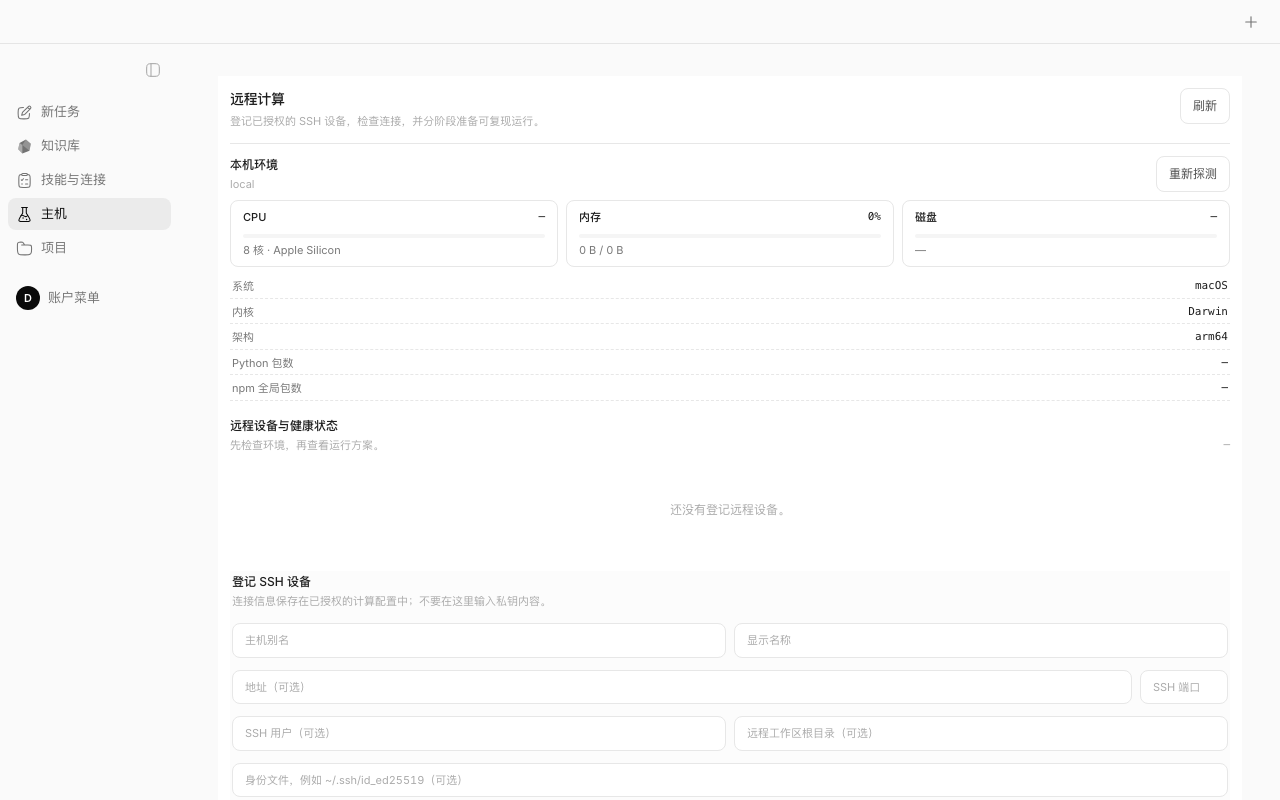
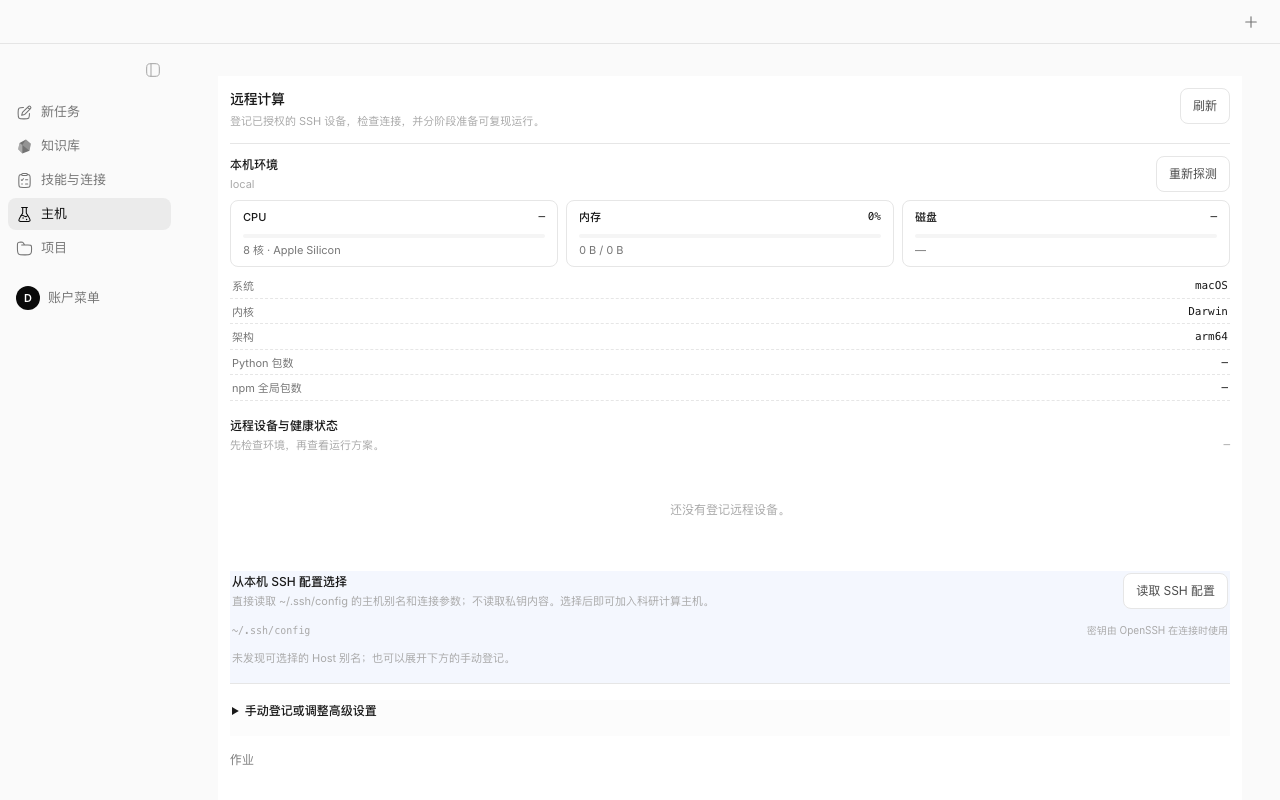
docs: audit pluginization gaps and visual host guard

diff --git a/packages/desktop/src/renderer/src/components/panel/ComputePane.tsx b/packages/desktop/src/renderer/src/components/panel/ComputePane.tsx
@@ -325,7 +325,11 @@ export function ComputePane() {
 	const discoverSshHosts = useCallback(async () => {
 		setSshConfigLoading(true);
 		try {
-			setSshConfigHosts(await getPi().listSshConfig());
+			const discovered = await getPi().listSshConfig();
+			// Older/read-only host stubs may not expose this optional discovery
+			// projection yet. Keep the picker empty instead of breaking the Hosts
+			// route while the rest of the compute contract remains usable.
+			setSshConfigHosts(Array.isArray(discovered) ? discovered : []);
 		} catch (reason) {
 			useComputeStore.setState({ error: reason instanceof Error ? reason.message : String(reason) });
 		} finally {

diff --git a/docs/final-pluginization-plan.md b/docs/final-pluginization-plan.md
@@ -575,6 +575,22 @@ npm run lint && npm run typecheck && npm test && npm run build && npm run check:
 
 **目标完成条件**：五个 v1.1 节点都有公开 tarball 验证；Desktop 只通过 host API 加载已安装包且无隐藏宿主 fallback；suite 能干净安装并发现全部资源；计划与索引记录两个仓库 head、版本、证据路径以及剩余 `BLOCKED`/`NOT_RUN`；没有新的架构红线或未审查的外部写入。
 
+### 9.3 2026-10-20 计划缺口复核
+
+两份计划和本轮口头布置逐项复核后的状态如下：
+
+| 项目 | 当前判定 | 证据或缺口 |
+| --- | --- | --- |
+| 架构 v2 A0–A7、P9、P10、A5-1～A5-4 | **完成** | `docs/architecture-v2-tasks.md` 只有 B8 保留为未勾选的暂缓项；其余任务均有实现和门禁记录。 |
+| 市场独立栏目、官方/社区 MCP 与 Skill 入口、Drone 包版本/说明、左侧 sticky 导航 | **已实现；浏览验收通过** | v0.33.4 安装包的 `v0.33.4-p4-ui-acceptance.json` 已回读四栏、市场卡片、八个 Drone 包元数据和长列表滚动后的导航。官方 extension 安装与 Drone 包更新/卸载的完整真实回读仍未覆盖。 |
+| 技能来源映射与内置包手动检查 | **已实现；范围有限** | `research-skill-sources.json` 和 updater 已显示真实 GitHub 仓库并支持用户点击检查/应用；当前只覆盖内置 Nature/Scientific/Academic 来源，没有“添加任意 Git URL/本地目录、许可依据、卸载来源”的 UI/IPC 闭环。 |
+| 主机 SSH 配置选择器 | **完成（macOS 正式包）** | 正式包发现 8 个 Host 别名并加入 `drone-gaoxuze-c`；只读元数据，不读取私钥正文。远程连通性仍需单独授权，不把发现误报为健康检查。 |
+| 分层热插拔 | **部分完成** | UI 插件运行中启停/重载和 Pi 包 registry/宿主加载已通过；worker `prepareUnload → drain → dispose → load → healthCheck`、失败自动回滚、生命周期事件与 Pi “下一会话版本”展示尚无真实宿主证据。当前 `PackageService` 会重载非流式会话，和计划的下一会话语义需要后续拆分决策。 |
+| 真实知识闭环与主线实机门槛 | **仍未闭合** | P1-2/3/4、P1-5 仍需正式包真实知识写入→回读和轻路径会话；V4 MCP 因无配置为 `BLOCKED`，V5 原生 Pi 为 `NOT_RUN`。 |
+| 视觉对照与版本发布 | **浅色通过，深色未运行** | 浅色四视图静态回归和正式包回读均有证据；深色前后截图仍为 `NOT_RUN`。当前分支已有 v0.33.4 构建产物，但尚无 `v0.33.4` tag/远端 Release，不应把本地候选称为已发布版本。 |
+
+上述未闭合项属于 backlog 或环境门槛，不改变已通过的 `MCP-01`、`MEM-01`、`REDLINE-01`，也不触碰暂缓的 B8、只读的 Protocols.io 和无证书发布策略。
+
 > A5-1～A5-4 的用户收益、当前完成度和迁移顺序见 [A5 领域包收敛摘要](a5-impact-summary.md)。这些是发布后的架构收敛项，不改变已通过的 v1.1 门槛。
 
 ## 10. 插件化与桌面验收红线
@@ -625,9 +641,8 @@ npm run lint && npm run typecheck && npm test && npm run build && npm run check:
 
 ## 执行日志
 
-> Older execution entries are archived in [final-pluginization-plan-log-2026-10-19.md](archive/final-pluginization-plan-log-2026-10-19.md).
+> Older execution entries are archived in [final-pluginization-plan-log-2026-10-19.md](archive/final-pluginization-plan-log-2026-10-19.md) and [final-pluginization-plan-log-2026-10-20.md](archive/final-pluginization-plan-log-2026-10-20.md).
 
-| 2026-10-18 | 首批 npm 插件包公开发布 | `@gyoungwe/plugin-api@1.0.0`、`pi-core@0.1.0`、`pi-knowledge@0.1.0`、`pi-research@0.1.0`、`research-suite@0.1.0` 已提交 npm；安全密钥 2FA 已完成发布认证 | 首次聚合包发布后，继续做公开 tarball 验证 |
 | 2026-10-18 | `research-suite` 公开 tarball 修复 | registry 验证发现 `research-suite@0.1.0` 未携带三个 bundled dependency；外部仓库元数据修复提交 `a4eb3a6`、manifest 对齐提交 `5002590`，已发布 `@gyoungwe/research-suite@0.1.1`，公开 tarball 和全新临时目录安装均 PASS，证据见 [`v0.33.0-npm-packages.json`](releases/v0.33.0-npm-packages.json) | `desktop-ui-pack` 仍是 v1.1 的独立 UI 包；analysis/evidence/connectors 继续按计划推进，Protocols.io 保持只读 |
 | 2026-10-18 | v0.33.0 正式无证书发布 | main `961cd43a`；Release run [39066841689](https://github.com/Gyoungwe/Drone/actions/runs/39066841689) 的 macOS arm64/x64 与 Windows x64 validate、unsigned build、MCP 资源校验、资产上传全部成功；[v0.33.0 Release](https://github.com/Gyoungwe/Drone/releases/tag/v0.33.0) 已发布，包含 3 个安装包、3 个 zip、4 个 blockmap 和 2 个更新清单；SHA-256 见 [`v0.33.0-assets.sha256`](releases/v0.33.0-assets.sha256) | npm 首批包已发布；按 v1.1 推进 analysis/evidence/connectors 和完整 desktop-ui-pack |
 | 2026-10-18 | Windows 跨平台验收修复 | `scripts/check-plugin-api.mjs` 生命周期闸门改用跨平台 tarball basename、npm 执行器和 Biome 格式；MEM-01/SKILL-01 证据与临时 fixture 改用 Node `os.tmpdir()`，避免 Windows 将 POSIX `/tmp` 解析为 `\\tmp` | macOS validate 已通过；等待修复后的 Release 同时完成 Windows validate 与无证书构建资产 |
@@ -657,3 +672,4 @@ npm run lint && npm run typecheck && npm test && npm run build && npm run check:
 | 2026-10-19 | v0.33.3 macOS-only Release 上传后验收 | workflow [`39222533359`](https://github.com/Gyoungwe/Drone/actions/runs/39222533359) 的 macOS validate、双架构 build、publish、post-upload-verify、finalize 和 website 全部成功；从已发布 [`v0.33.3`](https://github.com/Gyoungwe/Drone/releases/tag/v0.33.3) 回下载 arm64/x64 DMG/ZIP、blockmap 与 `latest-mac.yml`，再次运行 `check-release-artifacts` 通过，Release 已公开 | Windows 不参与本版本门禁；证书按无证书策略为 `NOT_RUN`，B8 与 Protocols.io 写入继续暂缓/只读 |
 | 2026-10-19 | 实机报告剩余项与 CO-1～CO-4 对照 | `docs/real-device-acceptance-20261019/README.md` 已补充 CO-1～CO-4 的改前/改后证据边界和未关闭门槛；CO-1/CO-3 代码完成待 v0.33.4 正式包，CO-2 的来源分组、去重、插件列表、MCP error 和会话级整组启用/禁用已完成，回归测试覆盖显式技能不可用；静态 renderer 视觉预览不计最终 PASS | P1-2/3/4/7/8、P1-5、V6 仍待 v0.33.4 正式包或真实会话；V4 MCP 为 BLOCKED，V5 原生 Pi 为 NOT_RUN；B8 和 Protocols.io 写入继续暂缓/只读 |
 | 2026-10-19 | 技能仓库来源与更新入口收口 | 修正技能页不再把 `local`/`auto` 当作仓库来源：科研技能通过锁定目录映射到 `Yuan1z0825/nature-skills`、`K-Dense-AI/scientific-agent-skills` 等 GitHub 仓库，并可打开精确 commit/path；技能与连接页新增仓库级来源卡片，显示锁定 commit、加载/内置计数和自动检查/仅目录状态；更新检查在 GitHub API 403/429 时回退到公开 Atom feed；正式包宿主资源清单补列 pi-core、pi-knowledge、pi-research、desktop-ui-pack 的版本与状态 | v0.33.4 正式安装包真实回读来源卡片、GitHub 仓库链接、更新入口和宿主插件清单通过；B8 与 Protocols.io 写入继续暂缓/只读 |
+| 2026-10-20 | 计划缺口复核与浅色视觉回归修复 | `npm run check:remaining-gates`、`npm run check:plugin-api` 通过；`check-visual-design-comparison.mjs` 修正旧 host stub 缺少 `listSshConfig/searchCatalog` 的兼容性并恢复四视图 4/4 PASS；主机选择器对可选发现结果增加数组护栏 | 记录 P3/P4 的任意 Skill 仓库、完整市场生命周期、worker 回滚、MCP/原生 Pi/深色对照和 v0.33.4 远端 Release 仍未闭合；B8/Protocols.io/无证书策略不变 |

diff --git a/docs/architecture-v2-tasks.md b/docs/architecture-v2-tasks.md
@@ -171,9 +171,8 @@
 
 ## 执行日志
 
-> Older execution entries are archived in [architecture-v2-tasks-log-2026-10-19.md](archive/architecture-v2-tasks-log-2026-10-19.md).
+> Older execution entries are archived in [architecture-v2-tasks-log-2026-10-19.md](archive/architecture-v2-tasks-log-2026-10-19.md) and [architecture-v2-tasks-log-2026-10-20.md](archive/architecture-v2-tasks-log-2026-10-20.md).
 
-| 2026-10-01 | A7-1 增量 | `StorageRegistry.registerDiscoveredRoot` 为宿主发现的项目工作目录提供稳定、脱敏、幂等登记；SessionService 在 create/open session 时登记 `<cwd>/.local/agent-work`，重复会话不会产生重复条目；registry 6/6 通过 | 研究结果目录与知识库 Vault 仍由扩展配置动态发现，下一步需在 host 配置刷新时调用同一登记入口 |
 | 2026-10-01 | 全量验收（A3/A5/A6/A7 增量后） | `npm test` 全部通过：backend 1,372 passed + 13 skipped、desktop 556、extensions 16、knowledge 40、research 31、shared 130、tasks 31；`npm run typecheck`、`.pi` checkJs、build、upgrade fixtures、plugin API、extensions strict、架构检查（141 baseline、0 fixed）均通过 | 仍保留 5 个 `.pi/extensions` legacy 适配入口；A5-1/2/3 的运行时 worker、source archive 与剩余扩展仍按兼容层策略逐步迁移 |
 | 2026-10-01 | A5-2 增量 | `@drone/tasks` 新增 `authorization-policy` 纯策略入口：动作枚举/待决动作判定、授权请求去重键、ask_user 标题与授权卡正文投影；包测试 37/37、包 typecheck 与 Biome 检查通过；`.pi/lib/tasks/ask-authorization.mjs` 保持 CLI/扩展兼容实现 | backend、desktop 与组合根未改；授权 journal、binding 校验和 UI 仍由宿主运行时负责，A5-2 总项保持未完成 |
 | 2026-10-01 | A5-1 增量 | `@drone/knowledge/semantic-provider` 承载语义 provider 配置验证、请求边界、凭据注入与 bounded vector 响应校验；backend `knowledge-semantic` 10/10 改用包入口，knowledge typecheck/40 tests 通过 | `.pi/lib/knowledge/semantic-provider.mjs` 保留 CLI 自包含适配；service/worker 与 extension runtime 仍待整体迁移
@@ -203,3 +202,4 @@
 | 2026-10-19 | 交接规则、知识 worker 与主线评估 | `AGENTS.md` 增加暂缓条目、日志归档和真实 PASS 三条红线；计划日志均压到最近 30 行；backend worker host seam、打包资源检查和 v0.33.1 缺陷复现完成；onboarding 三项修复与 `eval:mainline` 20×2 离线证据加入；根 lint/typecheck/test/build/check:arch 均通过 | v0.33.2 正式安装包和发布 tag 尚待完成；B8 仍暂缓 |
 | 2026-10-19 | v0.33.2 真实插件宿主回归 | pi-core 0.1.3 / research-suite 0.1.5 公开 registry tarball 已回读；Pi 1.1.0/latest 真实安装、三条 onboarding 命令及旧冲突负例均完成；证据见 `docs/releases/v0.33.2-pi-cli-regression.json` | v0.33.2 release tag 待 Drone PR 合并后生成；B8 仍暂缓，Protocols.io 保持只读 |
 | 2026-10-19 | v0.33.3 安装包验收门禁与发布提速 | Release workflow 新增构建后原生 DMG/ZIP/NSIS 检查、上传后从 draft 回下载并对 installers/blockmaps/update metadata 做双向 SHA-256 清单比对，只有 `finalize` 才能公开 release；macOS 两架构合并为单次构建，构建与完整验证并行，Electron/Builder 缓存和资产白名单已加入；GitHub run `39191569111` 的 macOS/Windows 构建、上传、draft 回下载、Windows ZIP/NSIS 安装和最终 release 均通过；Windows 参数传递与 prepare 依赖门禁问题已修复，证据见 `docs/releases/v0.33.3-asset-validation.json` 与 Release run | v0.33.3 已发布且无证书门禁关闭；B8 仍暂缓，Protocols.io 保持只读 |
+| 2026-10-20 | 架构与插件计划缺口复核 | A0–A7、P9、P10 以及 A5-1～A5-4 的任务勾选和门禁记录均已核对；唯一未勾选项仍是按用户要求暂缓的 B8；根 `check:remaining-gates`、`check:plugin-api` 和浅色四视图回归均通过 | 插件热插拔 worker 排空/失败回滚/生命周期事件、任意 Skill 仓库管理、市场完整安装更新卸载、MCP 真实配置、原生 Pi 对等会话、深色对照和 v0.33.4 远端 Release 仍属后续门槛 |

diff --git a/docs/skills-connections-ui-v2-plan.md b/docs/skills-connections-ui-v2-plan.md
@@ -1,6 +1,6 @@
 # 技能与连接页 v2：Pi 市场、Drone 插件与能力生命周期
 
-状态：设计已确认；P0～P4 macOS 正式安装包验收完成。市场栏、连接器描述和 Drone registry 元数据已在正式包回读；MCP 因隔离包无配置保持 NOT_RUN，深色前后视觉对照仍未运行。
+状态：设计已确认；P0～P3 和 P4 的已实现部分已在 macOS 正式包回读。市场栏、连接器描述、Drone registry 元数据、sticky 导航、SSH 选择器和 UI 插件重载均有证据；官方/Drone 包完整安装更新卸载、任意 Skill 仓库添加/应用、MCP 真实配置和深色前后视觉对照仍未完成。
 
 本计划承接 [`final-pluginization-plan.md`](final-pluginization-plan.md) 的插件化边界和 [`plugin-hot-reload-plan.md`](plugin-hot-reload-plan.md) 的分层重载规则。它只重做 Desktop 的“技能与连接”页信息架构，不改变 `@gyoungwe/plugin-api`、Pi package manifest 或已有结果/证据合同。
 
@@ -167,6 +167,16 @@ Skill 仓库                                      [添加仓库]
 - 真实安装包验证：官方市场安装一个 extension、Drone 包安装/禁用/更新、UI plugin 重载、MCP 错误显示、连接器开关、Skill 仓库手动更新。
 - 浅色/深色正式安装包截图对照；更新 README、计划和发布说明。
 - 市场栏与 MCP/连接器/技能同级；市场导航在长列表滚动时保持 sticky；连接器条目显示用途描述；Drone 包在未安装时也显示 registry 版本和描述。
+
+### 8.1 2026-10-20 实施审计
+
+| 阶段 | 状态 | 已有证据 | 未关闭项 |
+| --- | --- | --- | --- |
+| P0–P2 | **PASS（实现/正式包回读）** | 四栏合同、市场来源合并、连接器描述/开关和 MCP 错误状态代码均已落地；v0.33.4 安装包回读市场、sticky 导航和连接器开关。 | MCP 仍因无配置为 `NOT_RUN`，没有真实外部 server 的错误/恢复回读。 |
+| P3 | **PARTIAL** | 内置研究技能来源映射、GitHub/Atom 检查、staging、完整性校验、失败恢复和手动检查入口已通过。 | 尚无“添加任意 Git URL/本地目录 + 分支/路径/许可依据 + 卸载来源”的持久化 IPC/UI；手动更新的真实应用/回滚尚未在正式包完成。 |
+| P4 | **PARTIAL** | UI plugin 运行中启停/重载、市场元数据、四栏和 SSH 选择器已有正式包证据；浅色四视图通过。 | 官方 extension 安装、Drone 包更新/卸载、worker 排空/失败回滚、Pi 下一会话提示、MCP 真实运行和深色前后截图仍未闭合。 |
+
+实现边界因此保持不变：不把内置来源卡片误报为通用 Skill 仓库管理，不把静态预览或 loader-only 结果标为最终 PASS，也不把 B8 或 Protocols.io 写入拉回当前范围。
 
 ## 9. 验收红线
 

diff --git a/docs/plugin-hot-reload-plan.md b/docs/plugin-hot-reload-plan.md
@@ -1,6 +1,6 @@
 # 插件构建与宿主热插拔计划
 
-状态：设计阶段，基于 v0.33.2 的双仓库边界；不改变现有插件 API，不启动 B8 云端协作。
+状态：实施中（2026-10-20 审计）；不改变现有插件 API，不启动 B8 云端协作。H1/H2 与 UI 层 H3 已有实现/包级证据，worker 排空、失败回滚、生命周期事件和下一会话显示仍未关闭。
 
 ## 目标
 
@@ -60,3 +60,14 @@
 ## 完成定义
 
 只有 H1–H6 的证据都来自真实安装包、真实宿主会话或真实 worker 生命周期，才关闭“插件热插拔”门槛。实现顺序按 H1 → H2 → H3 → H4 → H5 → H6，每阶段单独记录回执和回滚路径；任何层无法安全重载时，界面必须显示实际生效时机（下一会话或重启应用）。
+
+## 2026-10-20 现状矩阵
+
+| 阶段 | 状态 | 证据 | 缺口 |
+| --- | --- | --- | --- |
+| H1 产物与安装边界 | **PASS（包级）** | `check:plugin-api`、公开 registry tarball、干净 prefix 安装/卸载和 Desktop 发现检查通过。 | 仍需在正式包里回读安装记录的 integrity/来源字段。 |
+| H2 能力注册与兼容性 | **PASS（包级）** | manifest、Pi/Host 兼容矩阵和 Drone package metadata 已通过；不兼容状态不会进入工具加载。 | 失败安装的正式包 UI 回读尚未补齐。 |
+| H3 分层管理器 | **PARTIAL** | UI plugin manager 真实启用/禁用/重载；Pi 包可由宿主安装并触发非流式会话 reload。 | worker 生命周期和“当前/下一会话版本”没有统一状态模型；当前 reload 行为与本计划的下一会话语义冲突。 |
+| H4 失败恢复与回滚 | **NOT_RUN** | 仅有 UI manifest/build 失败时保留旧产物的单测/代码路径。 | 没有真实坏包或 worker 初始化失败的 staging→回滚→错误回执安装包证据。 |
+| H5 可观测性 | **PARTIAL** | 页面显示版本、来源、能力、状态和失败文本。 | `staged/verified/drained/reloaded/rolled_back` 事件尚未进入统一 trace/详情抽屉。 |
+| H6 发布与持续验收 | **PARTIAL** | `drone-plugins` push/PR CI、registry tarball、Pi 1.1.0/latest 和 macOS 包门禁已通过。 | 官方/Drone 包完整更新/卸载、MCP 真实 server、worker 回滚和深色对照仍未完成；因此整体热插拔门槛不能标 PASS。 |

diff --git a/docs/archive/architecture-v2-tasks-log-2026-10-20.md b/docs/archive/architecture-v2-tasks-log-2026-10-20.md
@@ -1,0 +1,5 @@
+# architecture-v2-tasks.md · archived execution log (2026-10-20)
+
+## 执行日志
+
+| 2026-10-01 | A7-1 增量 | `StorageRegistry.registerDiscoveredRoot` 为宿主发现的项目工作目录提供稳定、脱敏、幂等登记；SessionService 在 create/open session 时登记 `<cwd>/.local/agent-work`，重复会话不会产生重复条目；registry 6/6 通过 | 研究结果目录与知识库 Vault 仍由扩展配置动态发现，下一步需在 host 配置刷新时调用同一登记入口 |

diff --git a/docs/archive/final-pluginization-plan-log-2026-10-20.md b/docs/archive/final-pluginization-plan-log-2026-10-20.md
@@ -1,0 +1,5 @@
+# final-pluginization-plan.md · archived execution log (2026-10-20)
+
+## 执行日志
+
+| 2026-10-18 | 首批 npm 插件包公开发布 | `@gyoungwe/plugin-api@1.0.0`、`pi-core@0.1.0`、`pi-knowledge@0.1.0`、`pi-research@0.1.0`、`research-suite@0.1.0` 已提交 npm；安全密钥 2FA 已完成发布认证 | 首次聚合包发布后，继续做公开 tarball 验证 |
